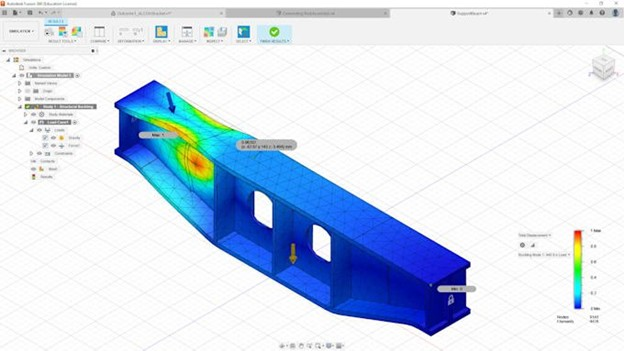
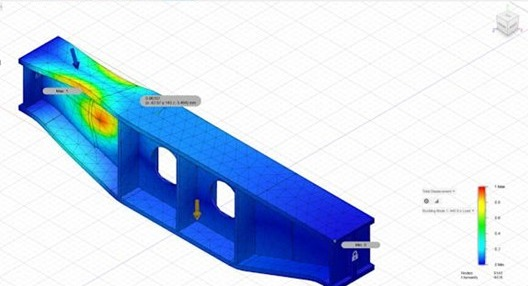
Remove what a reviewer would hold against the page
- Delete both "Image needed" placeholders. They were rendering on the live
  site, including on the state-estimation card, which told every visitor the
  page was unfinished on the project that matters most. The card now carries
  a schematic of the filter loop (IMU and kinematics into the EKF, out to
  pose) drawn inline, clearly a diagram rather than a result.
- Delete the LSTM actual-vs-predicted figure. Over its nine-day window the
  prediction opens at 5.2 against an actual of 1.8 and closes at 0.1 against
  3.3. Anyone who reads plots sees a model that does not track, directly
  beneath a claim of a 5% material reduction. The claim stands on its own.
- Crop Fusion's toolbars and browser tree out of the buckling study so it
  reads as a result rather than a screenshot of an application.
- State the PCB as fabricated and awaiting integration onto the arm, rather
  than serving as the hub today.

Claude-Session: https://claude.ai/code/session_01H34n291vHUsQHTWP9TfPyQ

diff --git a/docs/index.html b/docs/index.html
@@ -379,6 +379,14 @@ section.block.alt .nda-note{background:var(--bg-elev)}
 }
 .card:hover .card-more{gap:12px}
 .card-more svg{width:14px;height:14px}
+.card-diagram{
+  display:grid;place-items:center;height:100%;padding:22px;
+  background:linear-gradient(135deg,var(--accent-soft),transparent 65%),var(--bg-sunken);
+  color:var(--text-3);
+}
+.card-diagram svg{width:100%;max-width:300px;height:auto}
+.card-diagram .accent-stroke{stroke:var(--accent)}
+.card-diagram .accent-fill{fill:var(--accent)}
 .placeholder-media{
   display:grid;place-items:center;gap:8px;height:100%;
   background:
@@ -706,9 +714,25 @@ footer{padding:36px 0 44px;text-align:center}
 
       <a href="#state-estimation" class="card reveal" data-tags="robotics">
         <div class="card-media">
-          <div class="placeholder-media">
-            <svg viewBox="0 0 24 24" fill="none" stroke="currentColor" stroke-width="1.6"><path d="M3 17l6-6 4 4 8-8"/><circle cx="3" cy="17" r="1.6"/><circle cx="9" cy="11" r="1.6"/><circle cx="13" cy="15" r="1.6"/><circle cx="21" cy="7" r="1.6"/></svg>
-            <span>Image needed — see notes</span>
+          <div class="card-diagram">
+            <svg viewBox="0 0 320 180" role="img" aria-label="Schematic of the contact-aided filter loop">
+              <g fill="none" stroke="currentColor" stroke-width="1.5" stroke-linecap="round">
+                <rect x="18" y="26" width="86" height="30" rx="6" opacity=".85"/>
+                <rect x="18" y="76" width="86" height="30" rx="6" opacity=".85"/>
+                <rect x="126" y="51" width="80" height="30" rx="6" opacity=".85"/>
+                <rect x="228" y="51" width="74" height="30" rx="6" class="accent-stroke"/>
+                <path d="M104 41h12q6 0 6 6v4" opacity=".6"/>
+                <path d="M104 91h12q6 0 6-6v-4" opacity=".6"/>
+                <path d="M206 66h16" opacity=".6"/>
+                <path d="M265 81v26q0 6-6 6H68q-6 0-6-6v-7" opacity=".45" stroke-dasharray="3 4"/>
+              </g>
+              <g font-size="10" font-family="ui-monospace,monospace" fill="currentColor" text-anchor="middle">
+                <text x="61" y="45">IMU</text>
+                <text x="61" y="95">KINEMATICS</text>
+                <text x="166" y="70">EKF</text>
+                <text x="265" y="70" class="accent-fill">POSE</text>
+              </g>
+            </svg>
           </div>
           <div class="card-badge">Personal Project</div>
         </div>
@@ -834,13 +858,6 @@ footer{padding:36px 0 44px;text-align:center}
             <div class="arch-node"><b>Validation</b><span>Ground-truth RMSE · analytic vs. finite-difference Jacobians · GoogleTest</span></div>
           </div>
         </div>
-        <figure class="shot">
-          <div class="placeholder-media" style="aspect-ratio:16/9">
-            <svg viewBox="0 0 24 24" fill="none" stroke="currentColor" stroke-width="1.6"><path d="M3 3v18h18"/><path d="M7 15l4-6 3 4 5-8"/></svg>
-            <span>Image needed — estimated vs. ground-truth trajectory plot</span>
-          </div>
-          <figcaption>Suggested: a MATLAB or Matplotlib plot overlaying estimated base velocity against MuJoCo ground truth across the 60-second run, with the RMSE band annotated. See the image notes in the README.</figcaption>
-        </figure>
       </div>
     </div>
   </div>
@@ -868,7 +885,7 @@ footer{padding:36px 0 44px;text-align:center}
           <h4>Approach</h4>
           <ul>
             <li>Wrote real-time C++ firmware closing a <strong>500 Hz control loop</strong> from EMG sensor input to actuator command, holding end-to-end latency <strong>under 10 ms</strong>.</li>
-            <li>Designed and routed a custom PCB control hub interfacing motor driver signals with sensor input as the system's central processing unit.</li>
+            <li>Designed, routed, and fabricated a custom PCB control hub to interface motor driver signals with sensor input as the system's central processing unit, ahead of integration onto the arm.</li>
             <li>Led the team integrating FEA-validated structural design into a chassis producing <strong>over 150 N</strong> of force.</li>
           </ul>
         </div>
@@ -889,7 +906,7 @@ footer{padding:36px 0 44px;text-align:center}
         </figure>
         <figure class="shot">
           <img src="openeremg12.png" alt="Photorealistic 3D render of the custom EMG control PCB">
-          <figcaption>Photorealistic 3D render of the custom PCB serving as the system's central control hub, interfacing motor driver signals with incoming EMG input.</figcaption>
+          <figcaption>Photorealistic 3D render of the custom PCB designed as the system's central control hub, interfacing motor driver signals with incoming EMG input. The board has been fabricated; integration onto the arm is the next step.</figcaption>
         </figure>
         <figure class="shot">
           <img src="image_04a4f7.png" alt="KiCad 2D board layout showing signal routing">
@@ -1018,10 +1035,6 @@ footer{padding:36px 0 44px;text-align:center}
         <figure class="shot">
           <img src="Caterpillar.png" alt="Power BI dashboard comparing primer and topcoat usage">
           <figcaption>The bottleneck view of the Python dashboard, ranking paint stages by severity and average deviation to isolate where the manual and robotic lines diverge.</figcaption>
-        </figure>
-        <figure class="shot">
-          <img src="image_041273.png" alt="LSTM forecast versus actual topcoat usage">
-          <figcaption>Model readout comparing actual against predicted topcoat usage from the LSTM forecaster.</figcaption>
         </figure>
       </div>
     </div>

diff --git a/index.html b/index.html
@@ -379,6 +379,14 @@ section.block.alt .nda-note{background:var(--bg-elev)}
 }
 .card:hover .card-more{gap:12px}
 .card-more svg{width:14px;height:14px}
+.card-diagram{
+  display:grid;place-items:center;height:100%;padding:22px;
+  background:linear-gradient(135deg,var(--accent-soft),transparent 65%),var(--bg-sunken);
+  color:var(--text-3);
+}
+.card-diagram svg{width:100%;max-width:300px;height:auto}
+.card-diagram .accent-stroke{stroke:var(--accent)}
+.card-diagram .accent-fill{fill:var(--accent)}
 .placeholder-media{
   display:grid;place-items:center;gap:8px;height:100%;
   background:
@@ -706,9 +714,25 @@ footer{padding:36px 0 44px;text-align:center}
 
       <a href="#state-estimation" class="card reveal" data-tags="robotics">
         <div class="card-media">
-          <div class="placeholder-media">
-            <svg viewBox="0 0 24 24" fill="none" stroke="currentColor" stroke-width="1.6"><path d="M3 17l6-6 4 4 8-8"/><circle cx="3" cy="17" r="1.6"/><circle cx="9" cy="11" r="1.6"/><circle cx="13" cy="15" r="1.6"/><circle cx="21" cy="7" r="1.6"/></svg>
-            <span>Image needed — see notes</span>
+          <div class="card-diagram">
+            <svg viewBox="0 0 320 180" role="img" aria-label="Schematic of the contact-aided filter loop">
+              <g fill="none" stroke="currentColor" stroke-width="1.5" stroke-linecap="round">
+                <rect x="18" y="26" width="86" height="30" rx="6" opacity=".85"/>
+                <rect x="18" y="76" width="86" height="30" rx="6" opacity=".85"/>
+                <rect x="126" y="51" width="80" height="30" rx="6" opacity=".85"/>
+                <rect x="228" y="51" width="74" height="30" rx="6" class="accent-stroke"/>
+                <path d="M104 41h12q6 0 6 6v4" opacity=".6"/>
+                <path d="M104 91h12q6 0 6-6v-4" opacity=".6"/>
+                <path d="M206 66h16" opacity=".6"/>
+                <path d="M265 81v26q0 6-6 6H68q-6 0-6-6v-7" opacity=".45" stroke-dasharray="3 4"/>
+              </g>
+              <g font-size="10" font-family="ui-monospace,monospace" fill="currentColor" text-anchor="middle">
+                <text x="61" y="45">IMU</text>
+                <text x="61" y="95">KINEMATICS</text>
+                <text x="166" y="70">EKF</text>
+                <text x="265" y="70" class="accent-fill">POSE</text>
+              </g>
+            </svg>
           </div>
           <div class="card-badge">Personal Project</div>
         </div>
@@ -834,13 +858,6 @@ footer{padding:36px 0 44px;text-align:center}
             <div class="arch-node"><b>Validation</b><span>Ground-truth RMSE · analytic vs. finite-difference Jacobians · GoogleTest</span></div>
           </div>
         </div>
-        <figure class="shot">
-          <div class="placeholder-media" style="aspect-ratio:16/9">
-            <svg viewBox="0 0 24 24" fill="none" stroke="currentColor" stroke-width="1.6"><path d="M3 3v18h18"/><path d="M7 15l4-6 3 4 5-8"/></svg>
-            <span>Image needed — estimated vs. ground-truth trajectory plot</span>
-          </div>
-          <figcaption>Suggested: a MATLAB or Matplotlib plot overlaying estimated base velocity against MuJoCo ground truth across the 60-second run, with the RMSE band annotated. See the image notes in the README.</figcaption>
-        </figure>
       </div>
     </div>
   </div>
@@ -868,7 +885,7 @@ footer{padding:36px 0 44px;text-align:center}
           <h4>Approach</h4>
           <ul>
             <li>Wrote real-time C++ firmware closing a <strong>500 Hz control loop</strong> from EMG sensor input to actuator command, holding end-to-end latency <strong>under 10 ms</strong>.</li>
-            <li>Designed and routed a custom PCB control hub interfacing motor driver signals with sensor input as the system's central processing unit.</li>
+            <li>Designed, routed, and fabricated a custom PCB control hub to interface motor driver signals with sensor input as the system's central processing unit, ahead of integration onto the arm.</li>
             <li>Led the team integrating FEA-validated structural design into a chassis producing <strong>over 150 N</strong> of force.</li>
           </ul>
         </div>
@@ -889,7 +906,7 @@ footer{padding:36px 0 44px;text-align:center}
         </figure>
         <figure class="shot">
           <img src="openeremg12.png" alt="Photorealistic 3D render of the custom EMG control PCB">
-          <figcaption>Photorealistic 3D render of the custom PCB serving as the system's central control hub, interfacing motor driver signals with incoming EMG input.</figcaption>
+          <figcaption>Photorealistic 3D render of the custom PCB designed as the system's central control hub, interfacing motor driver signals with incoming EMG input. The board has been fabricated; integration onto the arm is the next step.</figcaption>
         </figure>
         <figure class="shot">
           <img src="image_04a4f7.png" alt="KiCad 2D board layout showing signal routing">
@@ -1018,10 +1035,6 @@ footer{padding:36px 0 44px;text-align:center}
         <figure class="shot">
           <img src="Caterpillar.png" alt="Power BI dashboard comparing primer and topcoat usage">
           <figcaption>The bottleneck view of the Python dashboard, ranking paint stages by severity and average deviation to isolate where the manual and robotic lines diverge.</figcaption>
-        </figure>
-        <figure class="shot">
-          <img src="image_041273.png" alt="LSTM forecast versus actual topcoat usage">
-          <figcaption>Model readout comparing actual against predicted topcoat usage from the LSTM forecaster.</figcaption>
         </figure>
       </div>
     </div>
